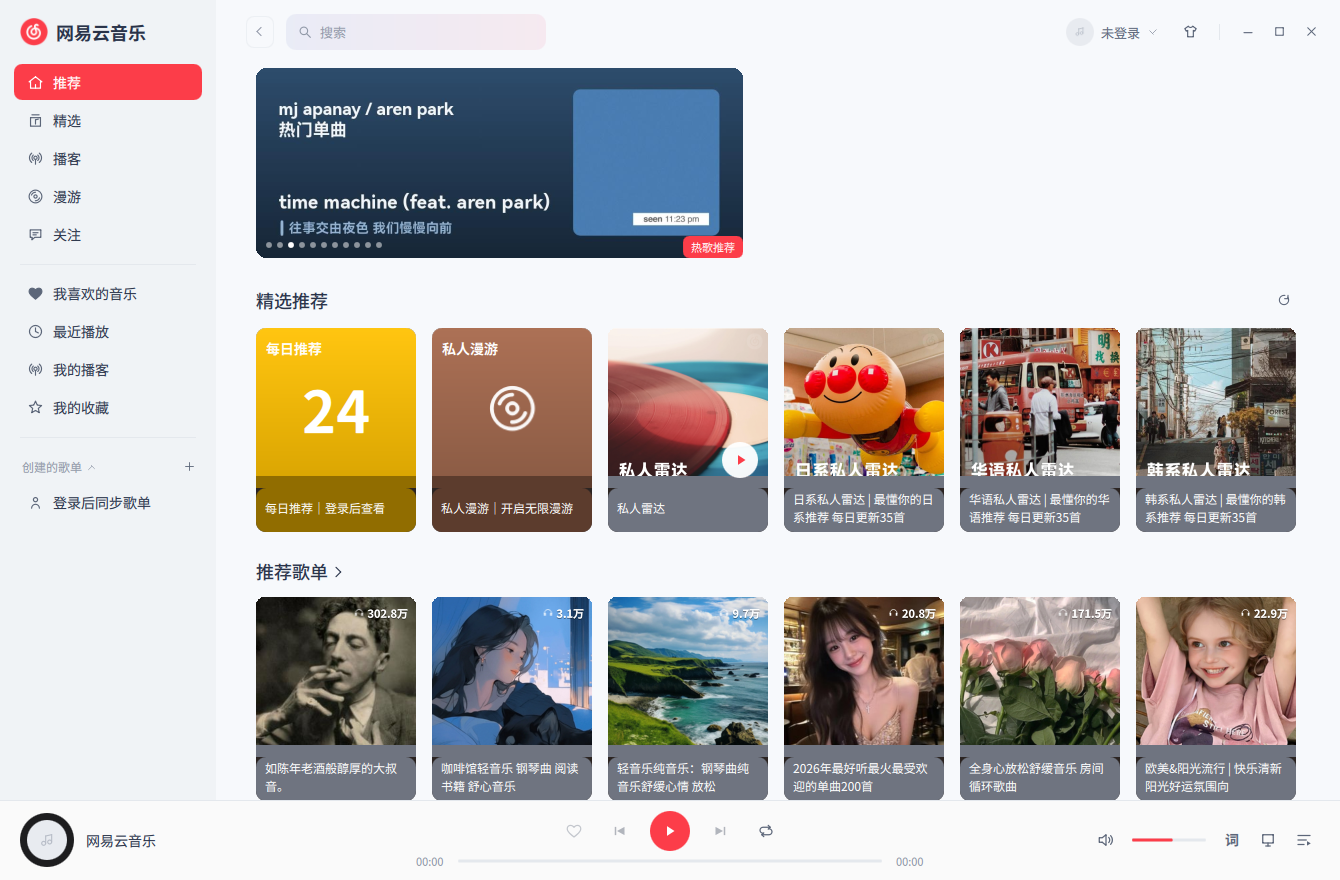
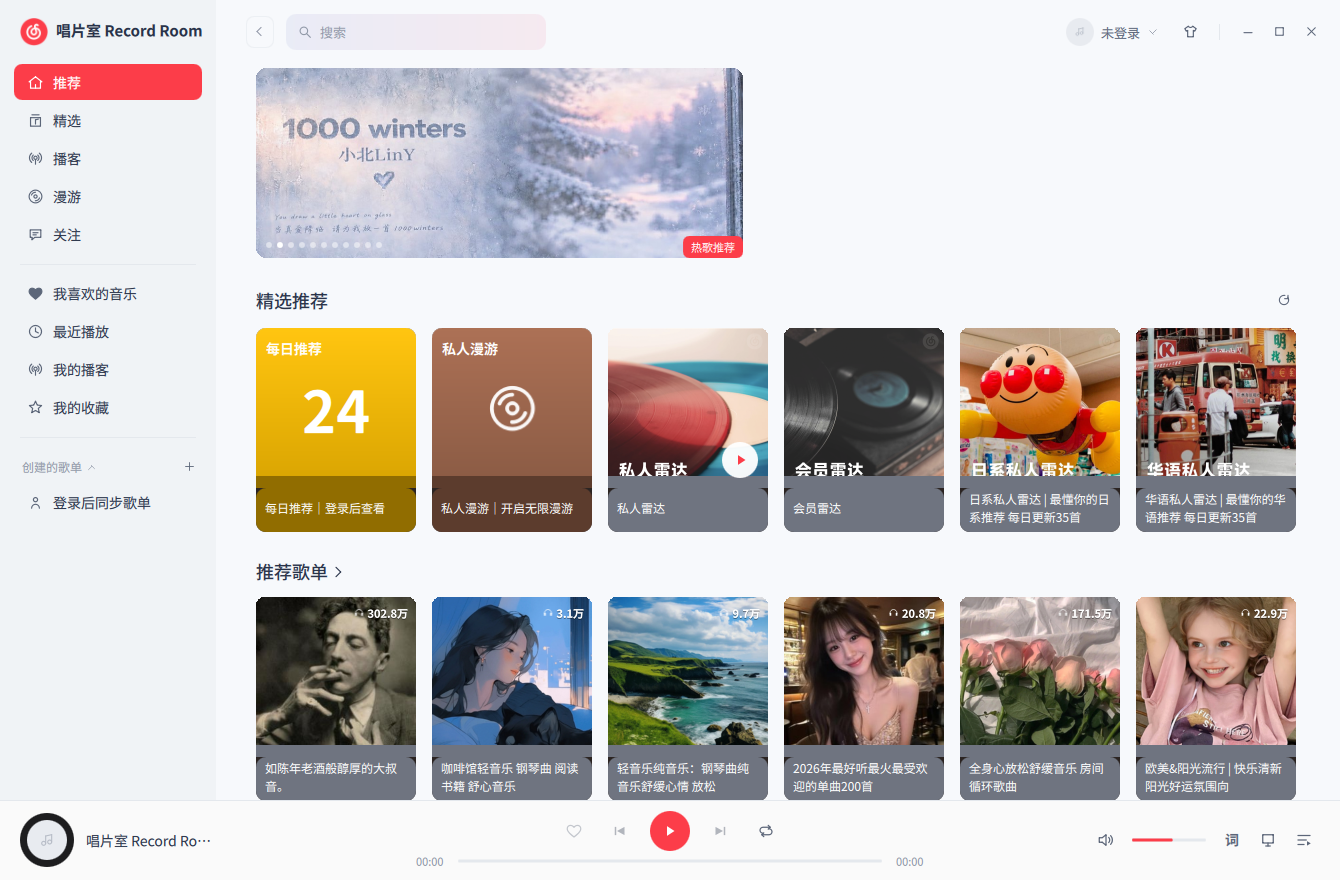
Release Record Room with desktop lyrics previews and an Ubuntu installer

diff --git a/qt-client/qml/DesktopLyrics.qml b/qt-client/qml/DesktopLyrics.qml
@@ -152,7 +152,7 @@ Window {
 
     readonly property string firstText: {
         if (!track.id)
-            return "网易云音乐"
+            return Qt.application.displayName
         if (current >= 0)
             return lines[current].text
         if (timed)
@@ -179,7 +179,7 @@ Window {
     }
     readonly property string trackTitleLine: {
         if (!track.id)
-            return "网易云音乐 · 等待播放"
+            return Qt.application.displayName + " · 等待播放"
         return track.artist ? track.title + " — " + track.artist : track.title
     }
     readonly property var currentWords: current >= 0 && lines[current].words ? lines[current].words : []

diff --git a/qt-client/qml/PlayerBar.qml b/qt-client/qml/PlayerBar.qml
@@ -205,7 +205,7 @@ Rectangle {
                     Label {
                         Layout.maximumWidth: implicitWidth
                         Layout.fillWidth: true
-                        text: bar.library.currentTrack.title || "网易云音乐"
+                        text: bar.library.currentTrack.title || Qt.application.displayName
                         textFormat: Text.PlainText
                         color: bar.ink
                         font.pixelSize: 14

diff --git a/qt-client/qml/Sidebar.qml b/qt-client/qml/Sidebar.qml
@@ -178,9 +178,11 @@ Rectangle {
             }
             Label {
                 Layout.fillWidth: true
-                text: "网易云音乐"
+                text: Qt.application.displayName
                 color: Theme.text
                 font.pixelSize: 18
+                fontSizeMode: Text.HorizontalFit
+                minimumPixelSize: 12
                 font.weight: Font.Bold
                 elide: Text.ElideRight
             }

diff --git a/qt-client/qml/NowPlayingPage.qml b/qt-client/qml/NowPlayingPage.qml
@@ -217,7 +217,7 @@ Rectangle {
             Label {
                 Layout.fillWidth: true
                 Layout.topMargin: 10
-                text: page.track.title || "网易云音乐"
+                text: page.track.title || Qt.application.displayName
                 textFormat: Text.PlainText
                 color: "#f3ece8"
                 font.pixelSize: 24

diff --git a/qt-client/qml/Main.qml b/qt-client/qml/Main.qml
@@ -13,7 +13,7 @@ ApplicationWindow {
     minimumHeight: 620
     visible: true
     flags: Qt.Window | Qt.FramelessWindowHint
-    title: "网易云音乐"
+    title: Qt.application.displayName
     color: Theme.window
     font.family: Theme.font
     palette.window: Theme.window

diff --git a/qt-client/src/main.cpp b/qt-client/src/main.cpp
@@ -68,7 +68,7 @@ int main(int argc, char *argv[])
         QLocalServer::removeServer(instanceName());
         instanceServer.listen(instanceName());
     }
-    app.setApplicationDisplayName(QStringLiteral("网易云音乐"));
+    app.setApplicationDisplayName(QStringLiteral("唱片室 Record Room"));
     app.setDesktopFileName("local.record-room");
     QIcon icon;
     for (const int size : {16, 32, 48, 64, 128})

diff --git a/README.md b/README.md
@@ -1,8 +1,18 @@
-# 网易云音乐 · Qt 桌面客户端
+# 唱片室 Record Room
 
 Record Room 是一款用 C++ 和 Qt Quick/QML 编写的 Linux 桌面音乐客户端。打开应用就能浏览网易云音乐的公开榜单、搜索歌曲并播放；扫码登录后，还可以同步歌单、收藏音乐和使用私人漫游。
 
 ![访客模式下的推荐首页，展示精选推荐、雷达歌单和底部播放栏](docs/screenshots/discovery.png)
+
+## 安装
+
+在 Ubuntu 24.04（x86-64）上，从[发行页](https://github.com/c99z/record-room/releases/latest)下载 `.deb` 安装包。在下载目录执行：
+
+```bash
+sudo apt install ./record-room_0.1.0_amd64.deb
+```
+
+安装后，在应用菜单打开「唱片室 Record Room」，或在终端运行 `record-room`。
 
 ## 主要功能
 
@@ -21,6 +31,22 @@ Record Room 是一款用 C++ 和 Qt Quick/QML 编写的 Linux 桌面音乐客户
 播放《致爱丽丝》时，左侧黑胶唱片展示专辑封面，右侧歌词区显示「纯音乐，请欣赏」。
 
 ![全屏播放页中的黑胶唱片、唱臂和纯音乐提示](docs/screenshots/player.png)
+
+### 桌面歌词
+
+播放时点击底栏的「词」，歌词会在独立悬浮窗中随音乐高亮。右键点击「词」可以切换样式；锁定窗口后，再点一次即可解锁。以下是播放《茉莉花》时的三个窗口实拍。
+
+**黑胶胶囊**将封面、当前歌词和进度收在一条窄栏里。
+
+![黑胶胶囊样式的桌面歌词](docs/screenshots/lyrics-vinyl.png)
+
+**舞台双轨**在左右两侧交替显示歌词，可以提前看到下一句。
+
+![舞台双轨样式的桌面歌词](docs/screenshots/lyrics-stage.png)
+
+**唱片铭牌**在歌词旁保留方形封面、曲目名和播放时间。
+
+![唱片铭牌样式的桌面歌词](docs/screenshots/lyrics-card.png)
 
 ## 构建与运行
 

diff --git a/qt-client/README.md b/qt-client/README.md
@@ -1,4 +1,4 @@
-# 网易云音乐 · Qt 桌面客户端
+# 唱片室 Record Room
 
 基于 Qt Quick/QML 的网易云音乐桌面客户端，页面布局和交互对照网页版（music.163.com/st/webplayer）：推荐、精选（歌单广场、排行榜、歌手、VIP）、播客、漫游、关注、歌单与歌手详情、分类搜索、带歌词和相似推荐的全屏播放页。默认浅色主题，可切换深色。与网页版的逐项对照见 `功能核对.md`。
 
